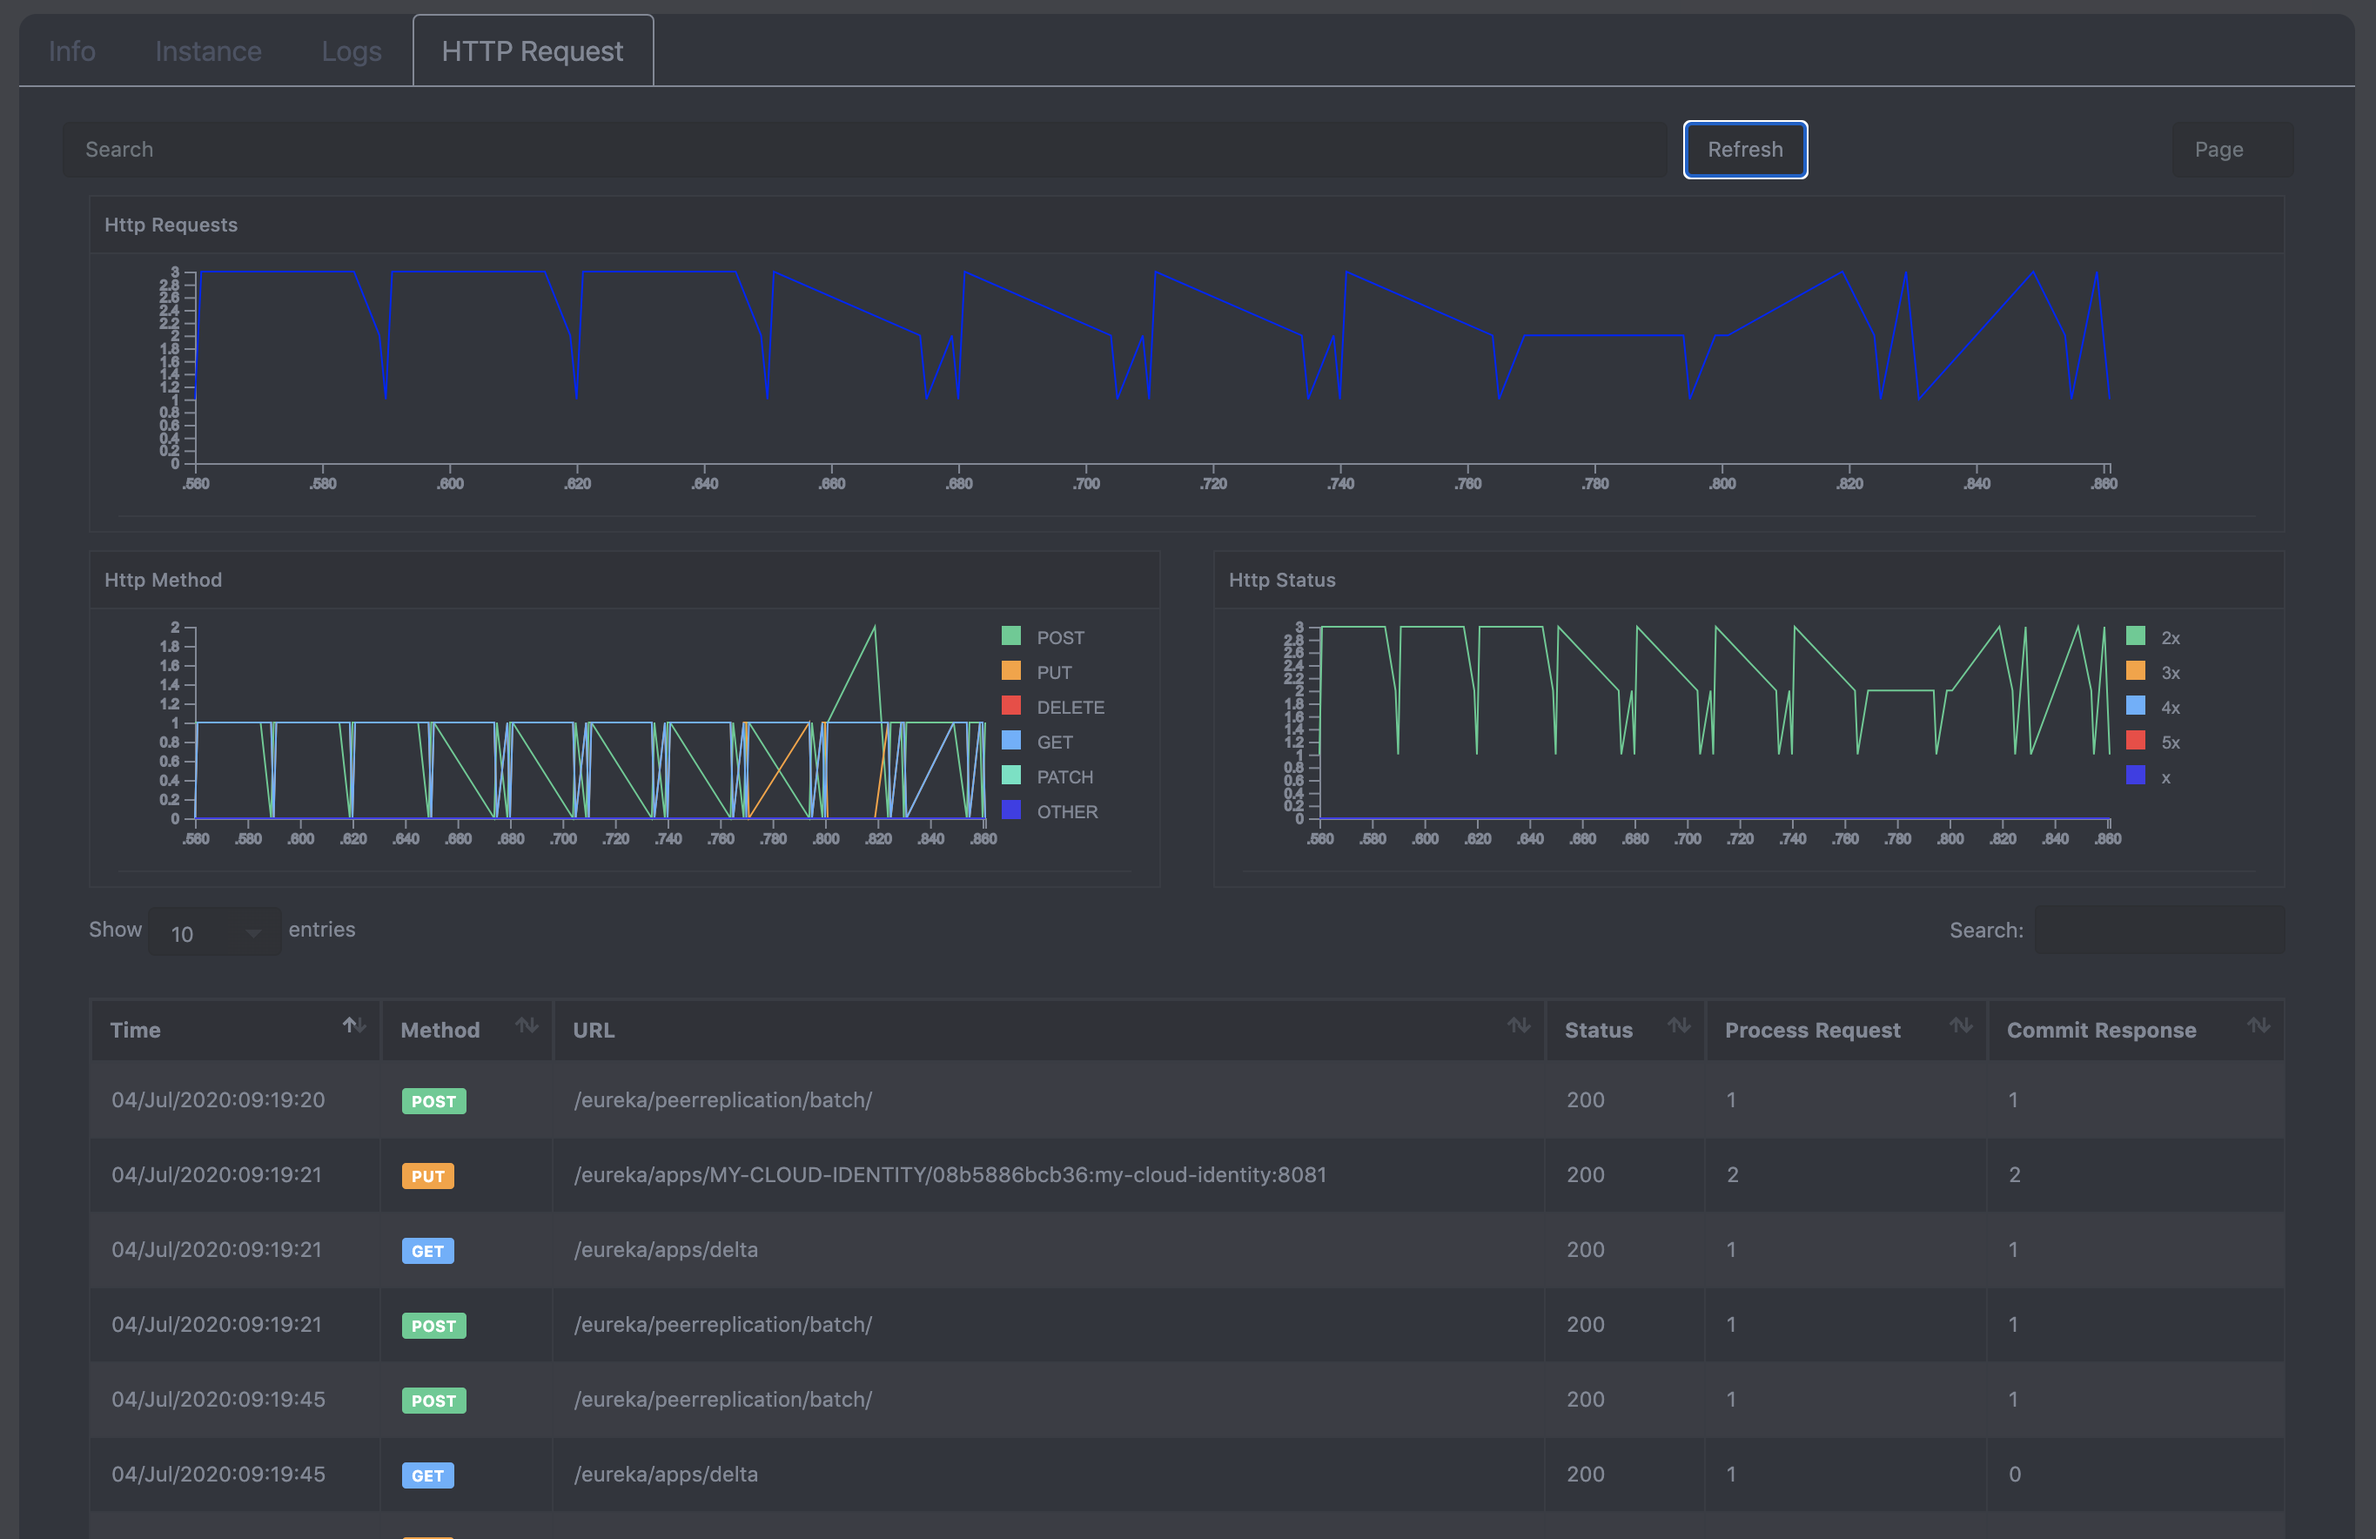
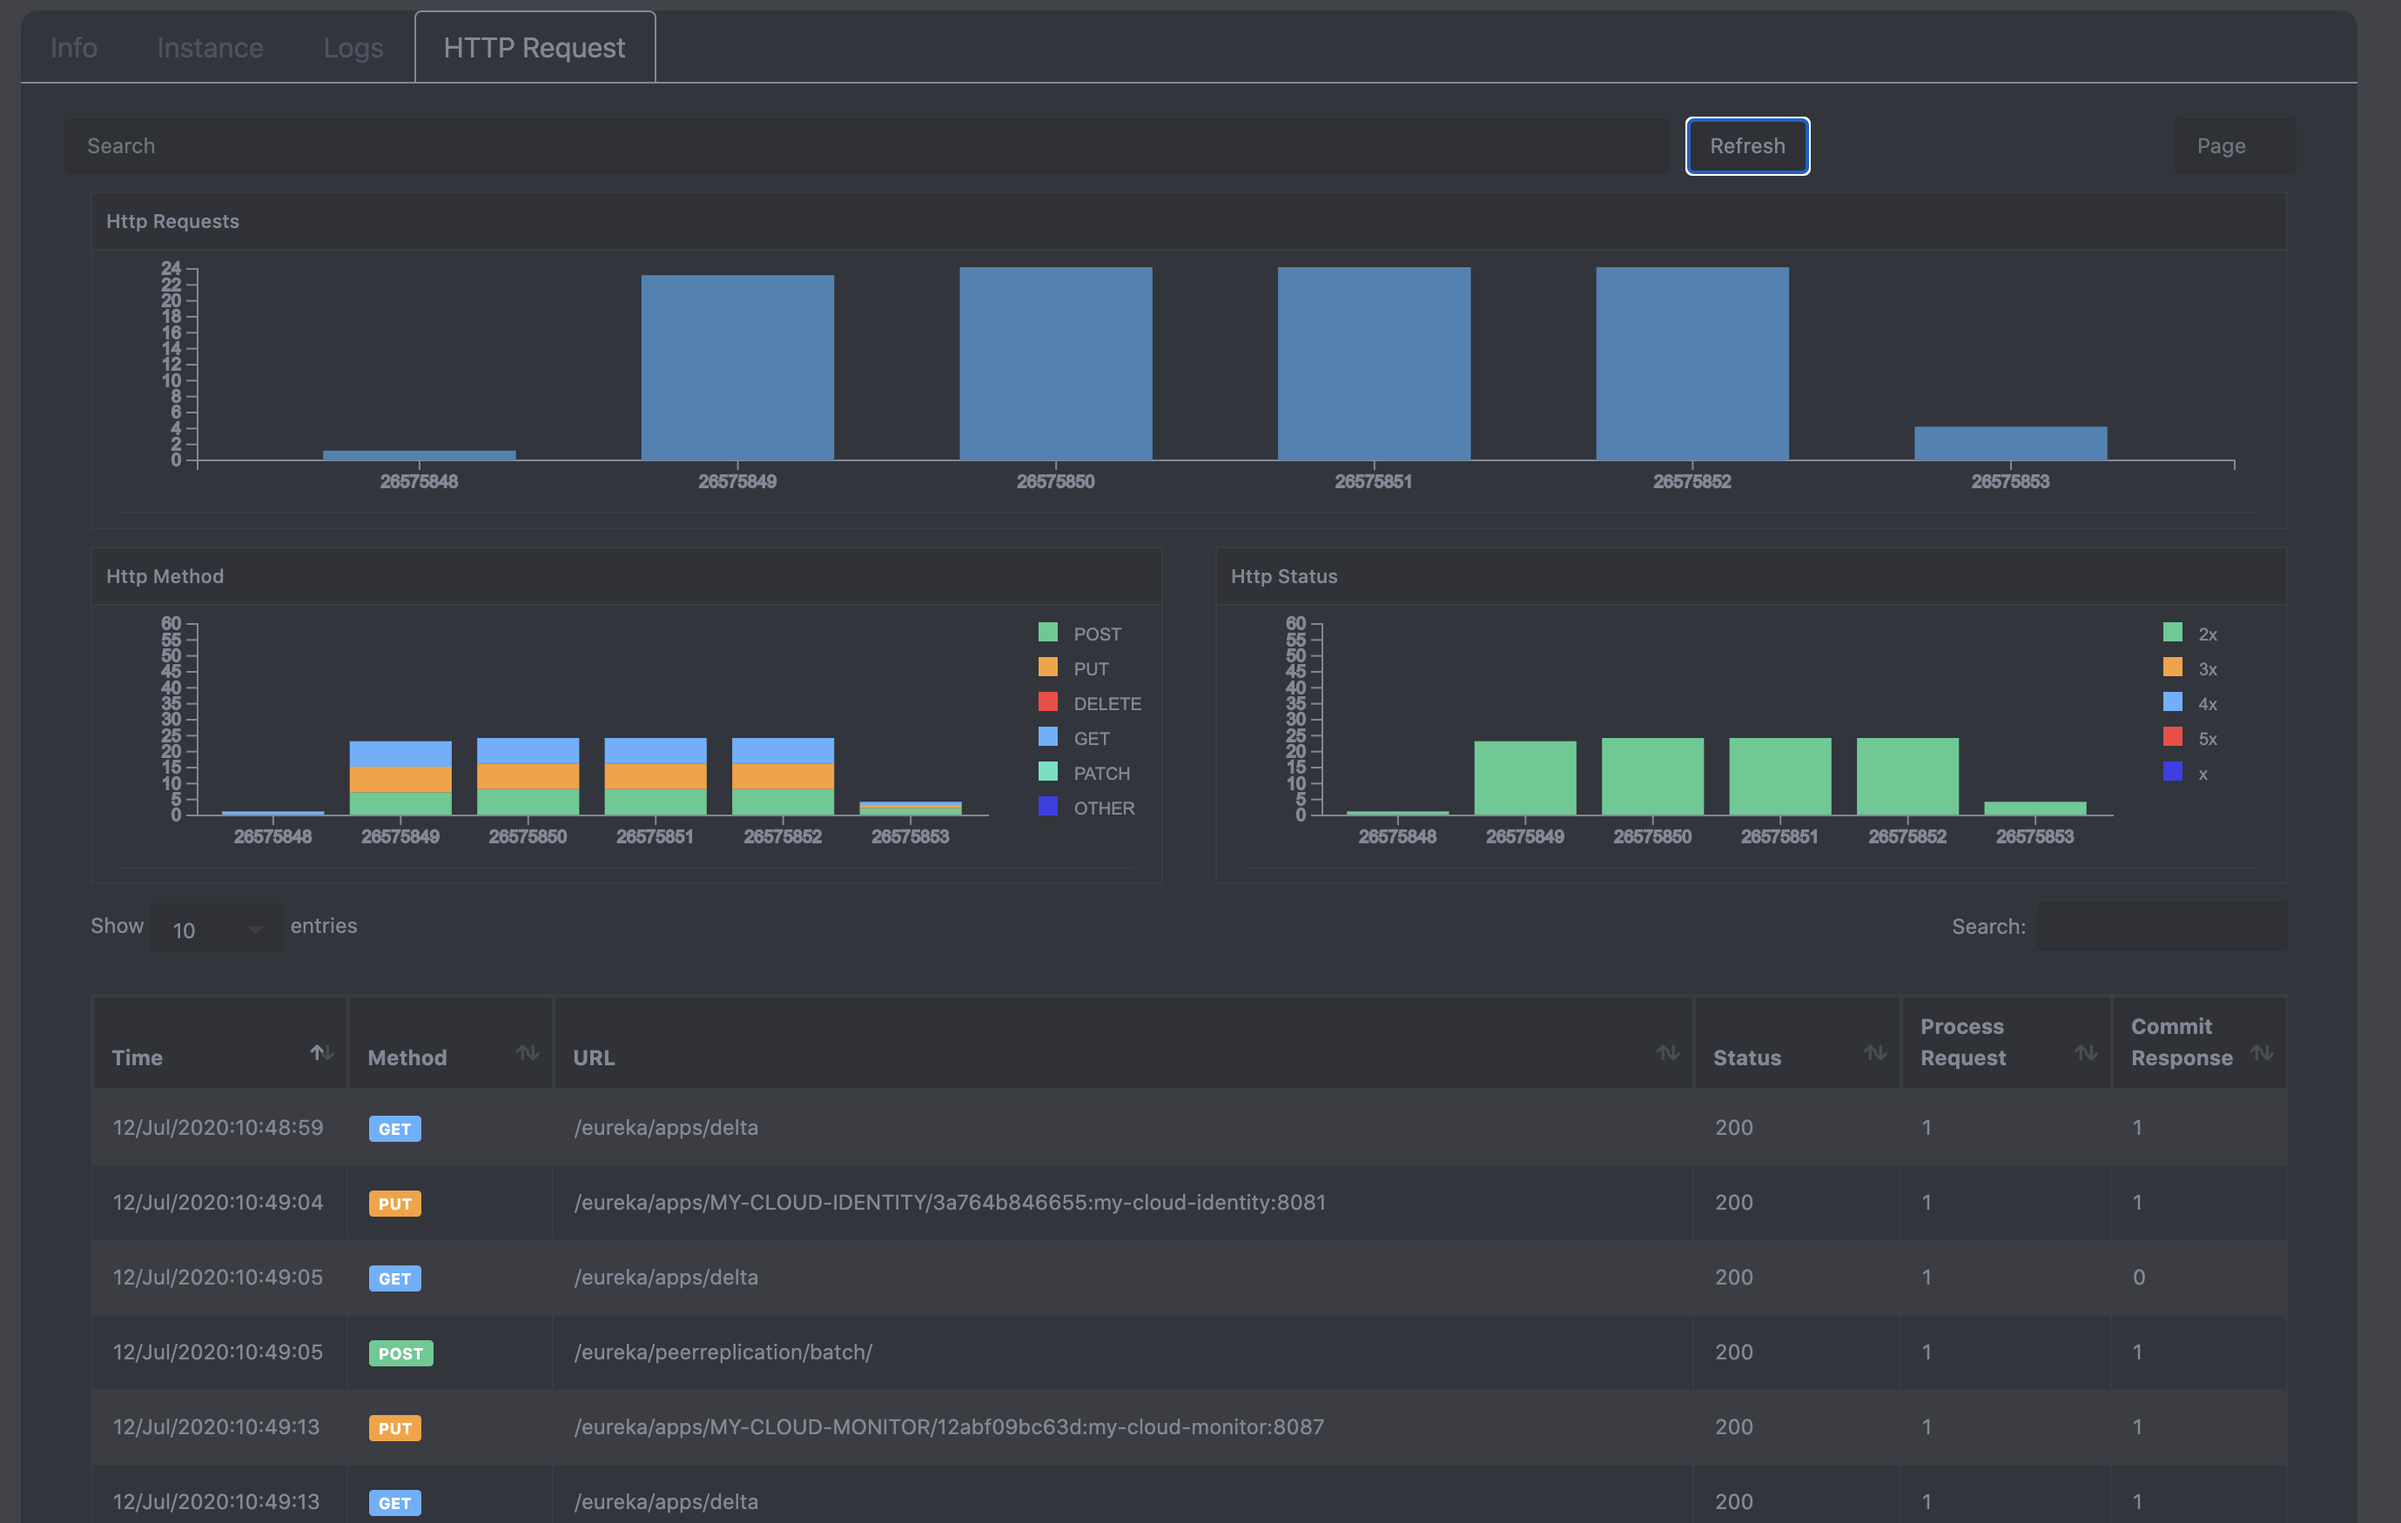
Implemented the stacked bar chart for http status in the monitor tab, updated the screenshot of access logs

diff --git a/my-cloud-dashboard/src/pages/monitor/MonitorHttpRequestTabPage.js b/my-cloud-dashboard/src/pages/monitor/MonitorHttpRequestTabPage.js
@@ -120,13 +120,8 @@ class MonitorHttpRequestTabPage extends React.Component {
             var methods = [];
             var methodsBars = [];
 
-            var statusValues = [];
-            var status2x = [];
-            var status3x = [];
-            var status4x = [];
-            var status5x = [];
-            var statusx = [];
-            var statusLegends = [];
+            var status = [];
+            var statusBars = [];
 
             response.data.matrics.forEach(metric => {
 
@@ -145,20 +140,14 @@ class MonitorHttpRequestTabPage extends React.Component {
                 })
 
                 //Status
-                statusValues.push({ time: metric.time, value: metric.status2x });
-                status2x.push({ time: metric.time, value: metric.status2x });
-
-                statusValues.push({ time: metric.time, value: metric.status3x });
-                status3x.push({ time: metric.time, value: metric.status3x });
-
-                statusValues.push({ time: metric.time, value: metric.status4x });
-                status4x.push({ time: metric.time, value: metric.status3x });
-
-                statusValues.push({ time: metric.time, value: metric.status5x });
-                status5x.push({ time: metric.time, value: metric.status5x });
-
-                statusValues.push({ time: metric.time, value: metric.statusx });
-                statusx.push({ time: metric.time, value: metric.statusx });
+                status.push({
+                    time: metric.time,
+                    status2x: metric.status2x,
+                    status3x: metric.status3x,
+                    status4x: metric.status4x,
+                    status5x: metric.status5x,
+                    statusx: metric.statusx,
+                });
 
             });
 
@@ -224,103 +213,50 @@ class MonitorHttpRequestTabPage extends React.Component {
                 },
                 "#chart-http-request-method");
 
-            items = [];
 
-            statusLegends.push({
+            statusBars.push({
                 value: "2x",
+                name: "status2x",
                 fill: "#49cc90",
                 stroke: "#49cc90",
                 strokeWidth: 1
             })
-            items.push(
-                {
-                    fill: "none",
-                    stroke: "#49cc90",
-                    strokeWidth: 1,
-                    data: status2x,
-                    x: function (d) { return d.time },
-                    y: function (d) { return d.value }
-                }
-            )
-
-            statusLegends.push({
+            statusBars.push({
                 value: "3x",
+                name: "status3x",
                 fill: "#fca130",
                 stroke: "#fca130",
                 strokeWidth: 1
             })
-            items.push(
-                {
-                    fill: "none",
-                    stroke: "#fca130",
-                    strokeWidth: 1,
-                    data: status3x,
-                    x: function (d) { return d.time },
-                    y: function (d) { return d.value }
-                }
-            )
-
-            statusLegends.push({
+            statusBars.push({
                 value: "4x",
+                name: "status4x",
                 fill: "#61affe",
                 stroke: "#61affe",
                 strokeWidth: 1
             })
-            items.push(
-                {
-                    fill: "none",
-                    stroke: "#61affe",
-                    strokeWidth: 1,
-                    data: status4x,
-                    x: function (d) { return d.time },
-                    y: function (d) { return d.value }
-                }
-            )
-
-            statusLegends.push({
+            statusBars.push({
                 value: "5x",
+                name: "status5x",
                 fill: "#f93e3e",
                 stroke: "#f93e3e",
                 strokeWidth: 1
             })
-            items.push(
-                {
-                    fill: "none",
-                    stroke: "#f93e3e",
-                    strokeWidth: 1,
-                    data: status5x,
-                    x: function (d) { return d.time },
-                    y: function (d) { return d.value }
-                }
-            )
-
-            statusLegends.push({
+            statusBars.push({
                 value: "x",
+                name: "statusx",
                 fill: "#4532ea",
                 stroke: "#4532ea",
                 strokeWidth: 1
             })
-            items.push(
-                {
-                    fill: "none",
-                    stroke: "#4532ea",
-                    strokeWidth: 1,
-                    data: statusx,
-                    x: function (d) { return d.time },
-                    y: function (d) { return d.value }
-                }
-            )
 
-            self.populateLineGraph('line',
+            self.d3BarChartStacked(
                 {
-                    items: items,
-                    values: statusValues,
-                    legends: statusLegends
+                    items: status,
+                    bars: statusBars
                 },
-                "#chart-http-request-status",
-                function (d) {
-                    return d;
-                });
+                "#chart-http-request-status");
+
         }
 
         this.setState({
